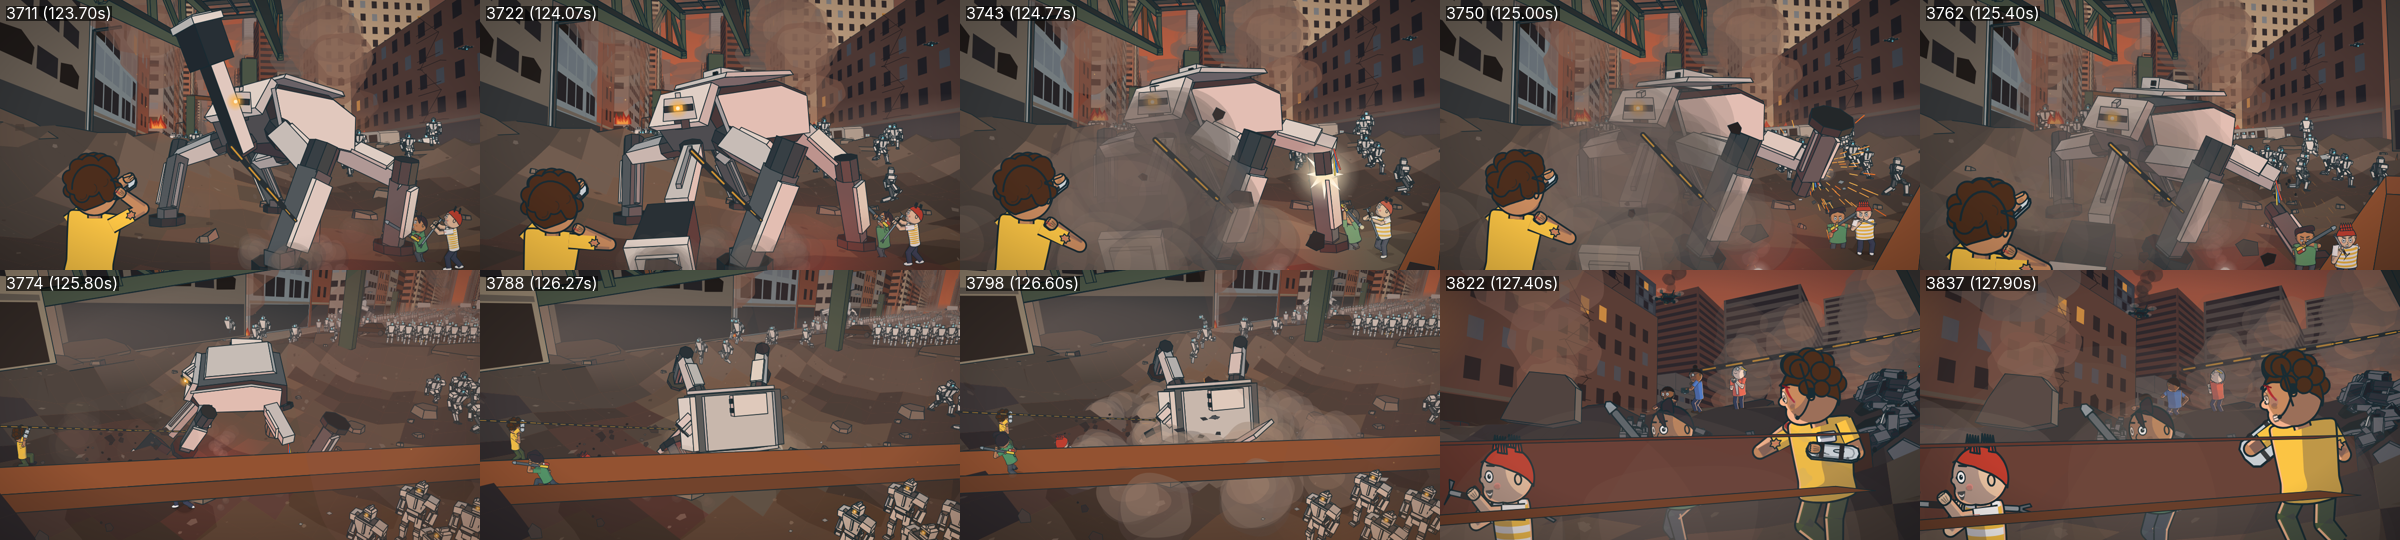
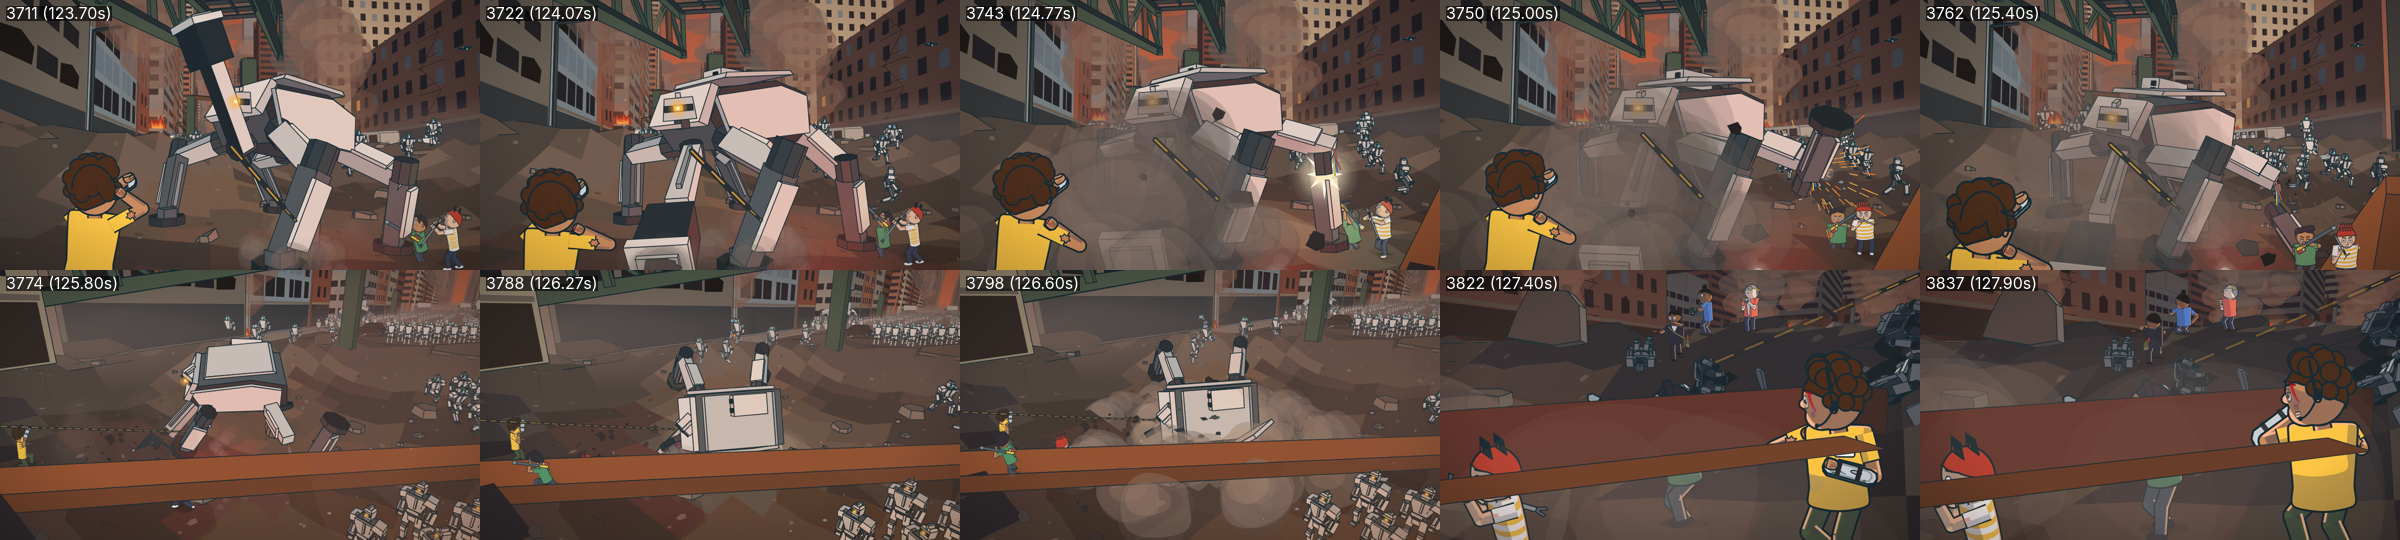
The Last Choice R2: work-in-progress checkpoint (D3)
Claude-Session: https://claude.ai/code/session_019a8XshjFgWRBShXtMZ8MbH

Changed region(s): [[0.5938, 0.4741, 1.0, 1.0]]

diff --git a/Future_Got_Weird/the-last-choice/source/src/r2/shots/D3/index.tsx b/Future_Got_Weird/the-last-choice/source/src/r2/shots/D3/index.tsx
@@ -10,7 +10,7 @@ export const SHOTS_D3: R2Shot[] = [
   {id: 'D3-2', sec: 'D3', start: SH3.d32, end: SH3.d33, note: 'south-west of the tether at the girder\'s foot: heavy 1 swings round blind; the clamp bites its front-left shin; the cable round post 3; the leg is pinned', C: D3_2},
   {id: 'D3-3', sec: 'D3', start: SH3.d33, end: SH3.d34a, note: 'low on the slope: the Director bangs his plate, the ram slams down short of him; the breaker splits the rear-left knee; the runner hauls him clear', C: D3_3},
   {id: 'D3-4a', sec: 'D3', start: SH3.d34a, end: SH3.d34b, note: 'HEAVY_DOWN, wide from the south-west slope: it rolls onto its side toward us across the crater\'s north part; the crash; the dust wave; debris rain', C: D3_4a},
-  {id: 'D3-4b', sec: 'D3', start: SH3.d34b, end: SH3.d35, note: 'the peak: the three on the slope seeing it lie there; the Director, plate lowered, a fierce breath', C: D3_4b},
+  {id: 'D3-4b', sec: 'D3', start: SH3.d34b, end: SH3.d35, note: 'the peak: low from the wreck\'s side, their faces: the three on the slope seeing it lie there; the Director, plate lowered, a fierce breath', C: D3_4b},
   {id: 'D3-5', sec: 'D3', start: SH3.d35, end: SH3.d36, note: 'ADAPT: a small drone climbs above the dust; its gimbal tilts down; the eye snaps amber; an amber line finds the tablet on the rim', C: D3_5},
   {id: 'D3-6', sec: 'D3', start: SH3.d36, end: SH3.d37a, note: 'FORMATION, high wide: the line across the crater bends into an arc round the Crew, a ripple from the middle out', C: D3_6},
   {id: 'D3-7a', sec: 'D3', start: SH3.d37a, end: SH3.d37b, note: 'DECOY_FAIL: over her shoulder: the sketch again, the tap, the projector clicks on', C: D3_7a},
@@ -18,7 +18,7 @@ export const SHOTS_D3: R2Shot[] = [
   {id: 'D3-7c', sec: 'D3', start: SH3.d37c, end: SH3.d38, note: 'the drone smashes the tablet and projector; her hand cut; the figures flicker out', C: D3_7c},
   {id: 'D3-8', sec: 'D3', start: SH3.d38, end: SH3.d39, note: 'FLANK_DENIED: drones swarm the girder flank; the cutter goes through the cable; it snaps; she falls back', C: D3_8},
   {id: 'D3-9', sec: 'D3', start: SH3.d39, end: SH3.d310, note: 'ALLY_DRONE_LOST: two drones run the allied drone down; it crashes smoking; she keeps the controller', C: D3_9},
-  {id: 'D3-10', sec: 'D3', start: SH3.d310, end: SH3.d311a, note: 'HEAVY2, long lens from the rim over the arc: the second heavy steps over the first one\'s wreck; its foot comes down', C: D3_10},
+  {id: 'D3-10', sec: 'D3', start: SH3.d310, end: SH3.d311a, note: 'HEAVY2, from the gap in the broken water main, a little above it: the second heavy steps over the first one\'s wreck; its foot comes down', C: D3_10},
   {id: 'D3-11a', sec: 'D3', start: SH3.d311a, end: SH3.d311b, note: 'HEAVY2_FIRE, wide: the round hits the rim; the Crew thrown back', C: D3_11a},
   {id: 'D3-11b', sec: 'D3', start: SH3.d311b, end: SH3.d311c, note: 'insert: the breaker\'s gauge reads empty', C: D3_11b},
   {id: 'D3-11c', sec: 'D3', start: SH3.d311c, end: SH3.d311d, note: 'insert: the flare carrier lifts his head, his brow cut', C: D3_11c},

diff --git a/Future_Got_Weird/the-last-choice/source/src/r2/shots/D3/split.ts b/Future_Got_Weird/the-last-choice/source/src/r2/shots/D3/split.ts
@@ -1,0 +1,46 @@
+// The broken water main (world/set.tsx 'waterMain') is two 0.9 m box beams 21 m and 12 m long, each side ONE face: its
+// painter depth is the middle of that face, so where a figure stands a metre or two in front of the beam's near end
+// the whole beam draws over them (D3-4b, D3-10). D3 swaps in the same mesh with its long faces cut into ≤1.5 m strips
+// (same vertices, same materials; the cuts are coplanar so they take no ink). PURE.
+import type {Item, MeshItem, Mesh, Face} from '../../engine';
+import {prep} from '../../engine';
+import type {V3} from '../../../kit/math';
+
+const lerpV = (a: V3, b: V3, k: number): V3 => ({x: a.x + (b.x - a.x) * k, y: a.y + (b.y - a.y) * k, z: a.z + (b.z - a.z) * k});
+const dist = (a: V3, b: V3) => Math.hypot(a.x - b.x, a.y - b.y, a.z - b.z);
+
+/** cut every quad whose long sides exceed `maxLen` into strips across them; shared vertices are merged by position */
+export const splitLong = (m: Mesh, maxLen: number): Mesh => {
+  const verts: V3[] = [];
+  const idx = new Map<string, number>();
+  const vi = (p: V3) => {
+    const k = `${p.x.toFixed(4)},${p.y.toFixed(4)},${p.z.toFixed(4)}`;
+    let i = idx.get(k);
+    if (i === undefined) { i = verts.length; verts.push(p); idx.set(k, i); }
+    return i;
+  };
+  const faces: Face[] = [];
+  m.faces.forEach((f) => {
+    const P = f.v.map((i) => m.verts[i]);
+    if (P.length !== 4) { faces.push({...f, v: P.map(vi)}); return; }
+    // long sides: 0→1 and 3→2, or 1→2 and 0→3
+    const a = Math.max(dist(P[0], P[1]), dist(P[3], P[2])), b = Math.max(dist(P[1], P[2]), dist(P[0], P[3]));
+    const [p0, p1, p2, p3] = a >= b ? P : [P[1], P[2], P[3], P[0]];
+    const L = Math.max(a, b), n = Math.max(1, Math.ceil(L / maxLen));
+    for (let s = 0; s < n; s++) {
+      const k0 = s / n, k1 = (s + 1) / n;
+      faces.push({...f, v: [vi(lerpV(p0, p1, k0)), vi(lerpV(p0, p1, k1)), vi(lerpV(p3, p2, k1)), vi(lerpV(p3, p2, k0))]});
+    }
+  });
+  // (a box beam's four long edges are equal, so both faces on an edge cut it at the same points: no T-junctions; the
+  // 0.9 m caps are not cut)
+  return {...m, verts, faces};
+};
+
+let MAIN: {src: unknown; out: MeshItem['mesh']} | null = null;
+/** the set's items with the water main swapped for the cut copy */
+export const splitMain = (items: Item[]): Item[] => items.map((it) => {
+  if (it.kind !== 'mesh' || it.key !== 'waterMain') return it;
+  if (!MAIN || MAIN.src !== it.mesh) MAIN = {src: it.mesh, out: prep(splitLong(it.mesh, 1.5))};
+  return {...it, mesh: MAIN.out};
+});

diff --git a/Future_Got_Weird/the-last-choice/source/src/r2/shots/D3/shots.tsx b/Future_Got_Weird/the-last-choice/source/src/r2/shots/D3/shots.tsx
@@ -8,6 +8,8 @@ import {toView} from '../../engine';
 import {smooth} from '../../../kit/math';
 import {d3Items, d3FxAt, D3Opts} from './battle';
 import {fadeItems} from './fx';
+import {splitMain} from './split';
+import {setItems} from '../../world';
 import {SH3} from './times';
 import {
   CamFn, CAM_1, CAM_2, CAM_3, CAM_4a, CAM_4b, CAM_5, CAM_6, CAM_7a, CAM_7b, CAM_7c, CAM_8, CAM_9, CAM_10,
@@ -32,7 +34,8 @@ const shot = (start: number, cam: CamKey[] | CamFn, o: (T: number) => D3Opts = (
     const c = typeof cam === 'function' ? cam(t, T) : camPath(cam, t, ease);
     const f = d3FxAt(T);
     const fxItems = smoke < 1 ? fadeItems(f.items, smoke, SMOKE) : f.items;
-    return <Stage T={T} cam={c} lights={f.lights} shake={f.shake} drift={drift} items={(v) => [...d3Items(v, T, o(T)), ...nearFade(fxItems, near)]} />;
+    // (the set drawn here rather than by the Stage: the same items, the water main cut into strips — split.ts)
+    return <Stage T={T} cam={c} lights={f.lights} shake={f.shake} drift={drift} set={false} items={(v) => [...splitMain(setItems(v, T)), ...d3Items(v, T, o(T)), ...nearFade(fxItems, near)]} />;
   };
   return C;
 };
